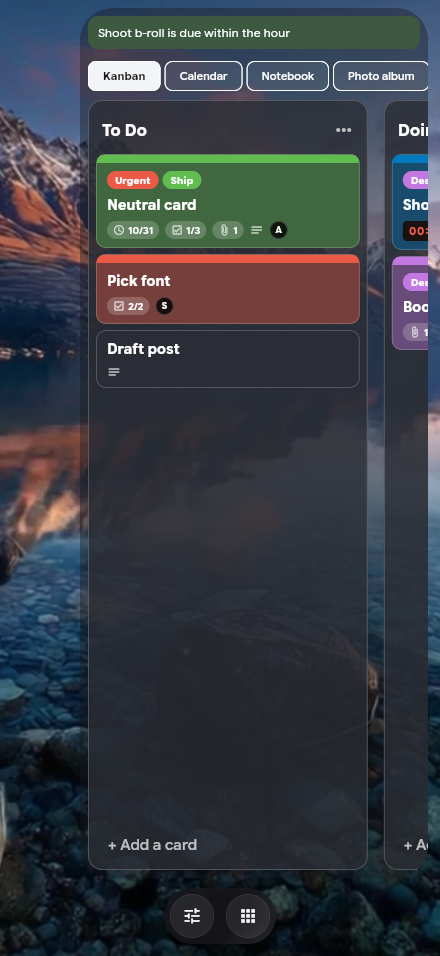
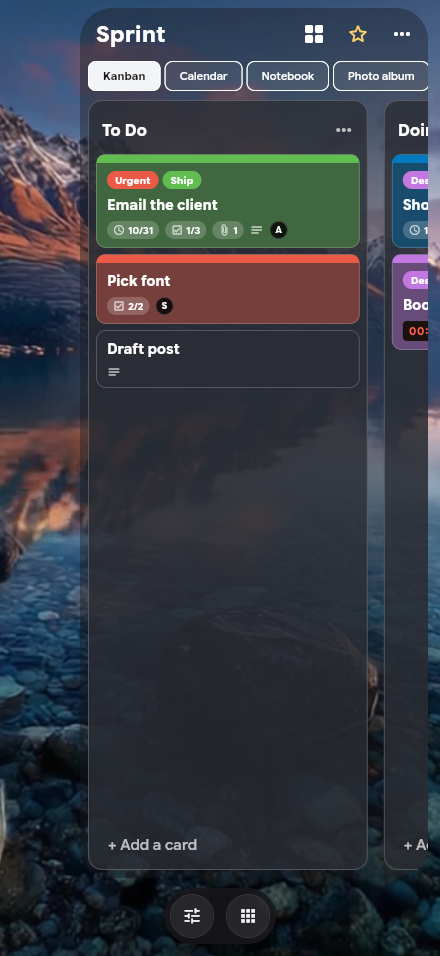
fix(smartgen): keep urgent toast below header and refresh board captures
Toast floats above the dock instead of covering the board title/actions,
auto-dismisses, and capture harness uses Email the client plus a dedicated
toast shot. Recapture 03/03b/03c.

diff --git a/lib/features/smartgen/sg_pane.dart b/lib/features/smartgen/sg_pane.dart
@@ -112,15 +112,15 @@ class _SgPaneState extends State<SgPane> {
             c0.members
               ..clear()
               ..add('Alex');
-            // Card 1: blue cover + due urgent + label
+            // Card 1: blue cover + due + label (not urgent — toast shot uses Shoot b-roll)
             if (b.cards.length > 1) {
               final c1 = b.cards[1];
               c1.color = 0xFF0079BF;
               c1.labelIds
                 ..clear()
                 ..add('cap-l2');
-              c1.dueMs = DateTime.now().add(const Duration(minutes: 25)).millisecondsSinceEpoch;
-              c1.urgent = true;
+              c1.dueMs = DateTime.now().add(const Duration(days: 3)).millisecondsSinceEpoch;
+              c1.urgent = false;
               c1.description = 'Tighten list peek';
               if (lists.length > 1) {
                 c1.listId = lists[1].id;
@@ -139,22 +139,24 @@ class _SgPaneState extends State<SgPane> {
                 ]);
               c2.members.add('Sam');
             }
-            // Card 3: purple + attachment
+            // Card 3: purple + attachment + urgent due (toast capture)
             if (b.cards.length > 3) {
               final c3 = b.cards[3];
               c3.color = 0xFFC377E0;
               c3.files.add(SgFile(id: 'f2', name: 'mock.png', dataUrl: 'data:text/plain;base64,YQ=='));
               c3.labelIds.add('cap-l2');
+              c3.dueMs = DateTime.now().add(const Duration(minutes: 25)).millisecondsSinceEpoch;
+              c3.urgent = true;
               if (lists.length > 1) {
                 c3.listId = lists[1].id;
                 c3.status = lists[1].title;
               }
             }
-            // Card 4: no colour (neutral glass) so default state is visible
+            // Card 4: no cover colour — default glass face
             if (b.cards.length > 4) {
               final c4 = b.cards[4];
               c4.color = 0;
-              c4.description = 'Neutral glass default';
+              c4.description = 'Follow up before Friday';
             }
           });
         }
@@ -213,7 +215,13 @@ class _SgPaneState extends State<SgPane> {
     if (sg == 'home' || (q['cap'] != '1' && store.boards.isEmpty)) {
       store.atHome = true;
     }
-    _checkNotes();
+    if (q['toast'] == '1' && store.board != null && store.board!.cards.isNotEmpty) {
+      final card = store.board!.cards.where((c) => c.urgent).firstOrNull ?? store.board!.cards.first;
+      // Long hold so the capture can screenshot before auto-dismiss.
+      _showToast('${card.title} is due within the hour', red: false, holdMs: 12000);
+    } else {
+      _checkNotes();
+    }
     _notes = Timer.periodic(const Duration(seconds: 30), (_) => _checkNotes());
     _hour = Timer.periodic(const Duration(hours: 1), (_) => store.applyHourly());
     setState(() {});
@@ -233,11 +241,11 @@ class _SgPaneState extends State<SgPane> {
     super.dispose();
   }
 
-  void _showToast(String text, {required bool red}) {
+  void _showToast(String text, {required bool red, int holdMs = 2600}) {
     _toastTimer?.cancel();
     _toast = text;
     _toastRed = red;
-    _toastTimer = Timer(const Duration(milliseconds: 2600), () {
+    _toastTimer = Timer(Duration(milliseconds: holdMs), () {
       if (!mounted) return;
       setState(() => _toast = '');
     });
@@ -246,6 +254,8 @@ class _SgPaneState extends State<SgPane> {
   void _checkNotes() {
     final b = store.board;
     if (b == null) return;
+    // Capture boards that must stay toast-free (clean header shots).
+    if (Uri.base.queryParameters['quiet'] == '1') return;
     final now = DateTime.now().millisecondsSinceEpoch;
     for (final c in b.cards) {
       if (!c.urgent || c.dueMs == null) continue;
@@ -288,8 +298,9 @@ class _SgPaneState extends State<SgPane> {
                     if (_multi) _bulkBar(b),
                   ],
                 ),
+                // Float over the list body, never over the board header / view tabs.
                 if (_toast.isNotEmpty)
-                  Positioned(top: 8, left: 8, right: 8, child: _toastBar()),
+                  Positioned(left: 8, right: 8, bottom: 12, child: _toastBar()),
               ]),
       ),
     );

diff --git a/artifacts/v920/CHECKLIST_RESULTS.md b/artifacts/v920/CHECKLIST_RESULTS.md
@@ -23,6 +23,7 @@ Before/after: `/workspace/sgrev/v920/before_after.png`.
 | Inline-only editing (no modal card editor / settings panel) | **PASS** | `04_inline_editor.png` — Cover/Move/Labels/Members/Checklist/Attachment/Done on `sg-card-sheet` |
 | Hidden fields flip to card back | **PASS** | `06_card_flip_back.png` — "Private notes" on back face |
 | Cover sheet 10 swatches + None; ~35–40% full-face tint | **PASS** | `05_cover_sheet.png` — Cover / Colors / None; tinted sheet with EB5A46; `05b_cover_on_board.png` coloured cards on board |
+| Urgent toast below header / above dock; auto-dismiss | **PASS** | `03c_urgent_toast.png` — toast at bottom; header title/views/star/menu clear; `quiet=1` on clean board shots |
 | Due dates visible | **PASS** | Due chip / `SgClock` on face; calendar (`11_calendar.png`) |
 | Attachments work | **PASS** (code + face) | Attachment quick action + count badge on face when files present |
 | NO scrollbars / progress bars / particles / nav-bar gradients | **PASS** | `SgScroll` hides bars; view-chip ShaderMask removed |
@@ -80,4 +81,4 @@ Before/after: `/workspace/sgrev/v920/before_after.png`.
 ## Capture index
 
 All under `collider/artifacts/v920/`:
-`01_empty_home` `02_create_board` `03_board_with_cards` `03b_list_peek` `04_inline_editor` `04b_editor_tinted` `05_cover_sheet` `05b_cover_on_board` `06_card_flip_back` `07_board_menu` `08_search` `09_statistics` `10_multi_select` `11_calendar` `12_notebook` `13_us_map` `14_genie` `15_drag` `cmp_*` `before_after`
+`01_empty_home` `02_create_board` `03_board_with_cards` `03b_list_peek` `03c_urgent_toast` `04_inline_editor` `04b_editor_tinted` `05_cover_sheet` `05b_cover_on_board` `06_card_flip_back` `07_board_menu` `08_search` `09_statistics` `10_multi_select` `11_calendar` `12_notebook` `13_us_map` `14_genie` `15_drag` `cmp_*` `before_after`
